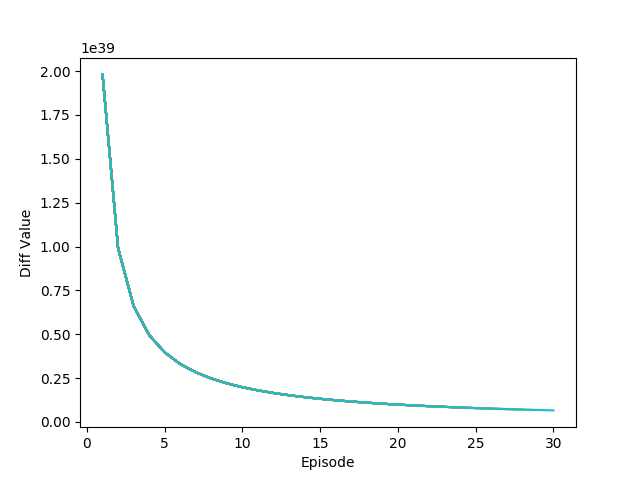
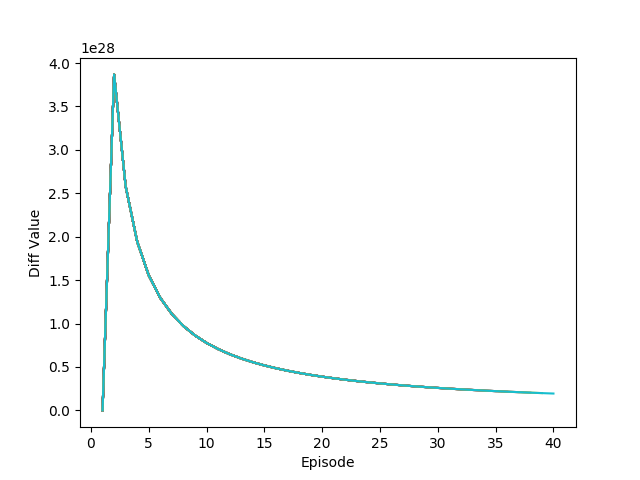
Diff Plotting

diff --git a/environment.py b/environment.py
@@ -62,7 +62,7 @@ class QuadraticEnvironment(object):
         func_val = .5 * np.einsum('ij,ijk,ik->i', self.current_iterate, self.H, self.current_iterate) + np.einsum('ij,ij->i', self.current_iterate, self.g)
         self.gradient = np.einsum('ijk,ik->ij',self.H, self.current_iterate) + self.g 
         reward = self.func_val - func_val
-        diff = np.sum(np.absolute(func_val - self.opti_func_val))
+        diff = np.sum(np.absolute(func_val - self.opti_func_val))/self.batch_size
         # print(diff)
         self.func_val = func_val
         # import pdb; pdb.set_trace()        

diff --git a/train.py b/train.py
@@ -107,6 +107,8 @@ class Trainer(object):
             state_history = np.stack(state_history)
             action_history = np.stack(action_history)
             reward_history = np.stack(reward_history)
+            
+            diff_total = diff_total/(self.seq_length)
 
             self.state_seq.data.copy_(torch.from_numpy(state_history))
             self.action_seq.data.copy_(torch.from_numpy(action_history))
